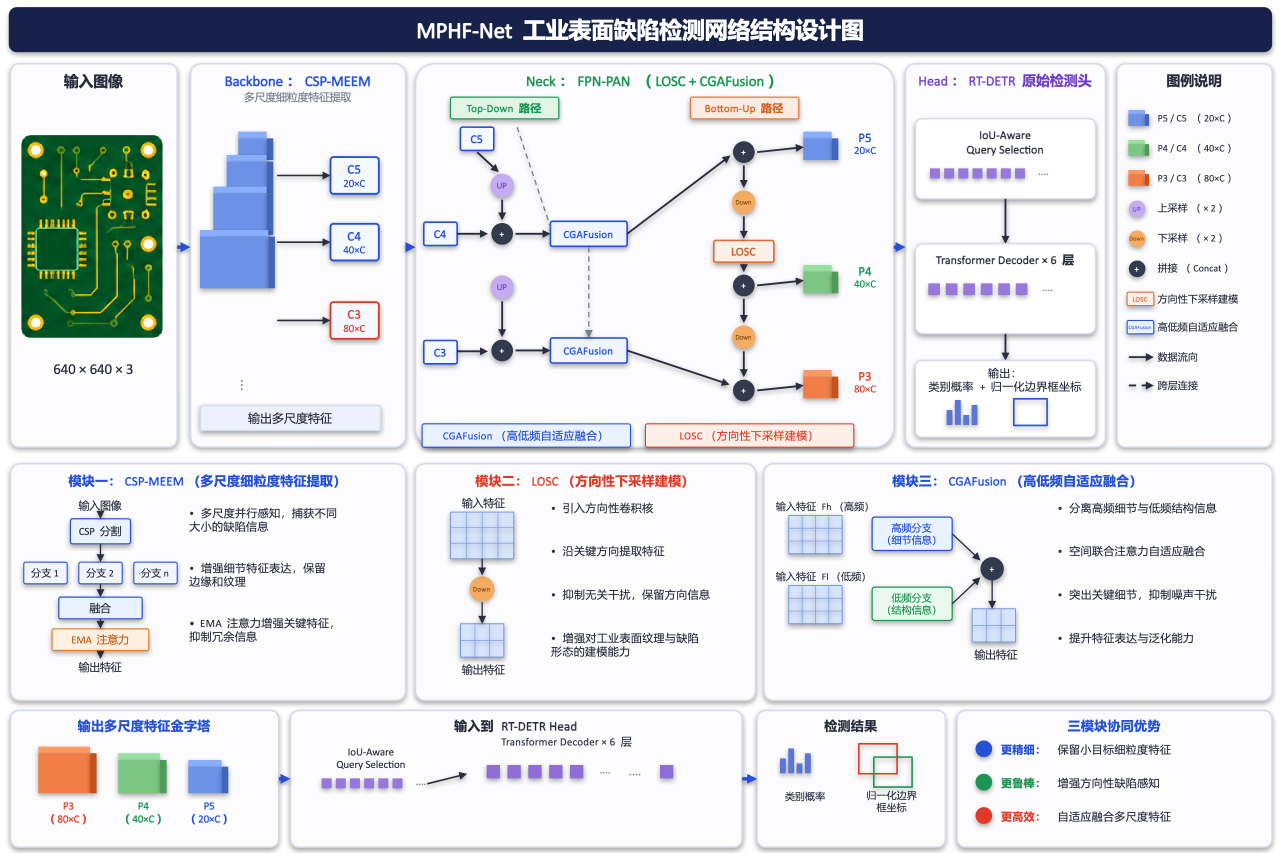
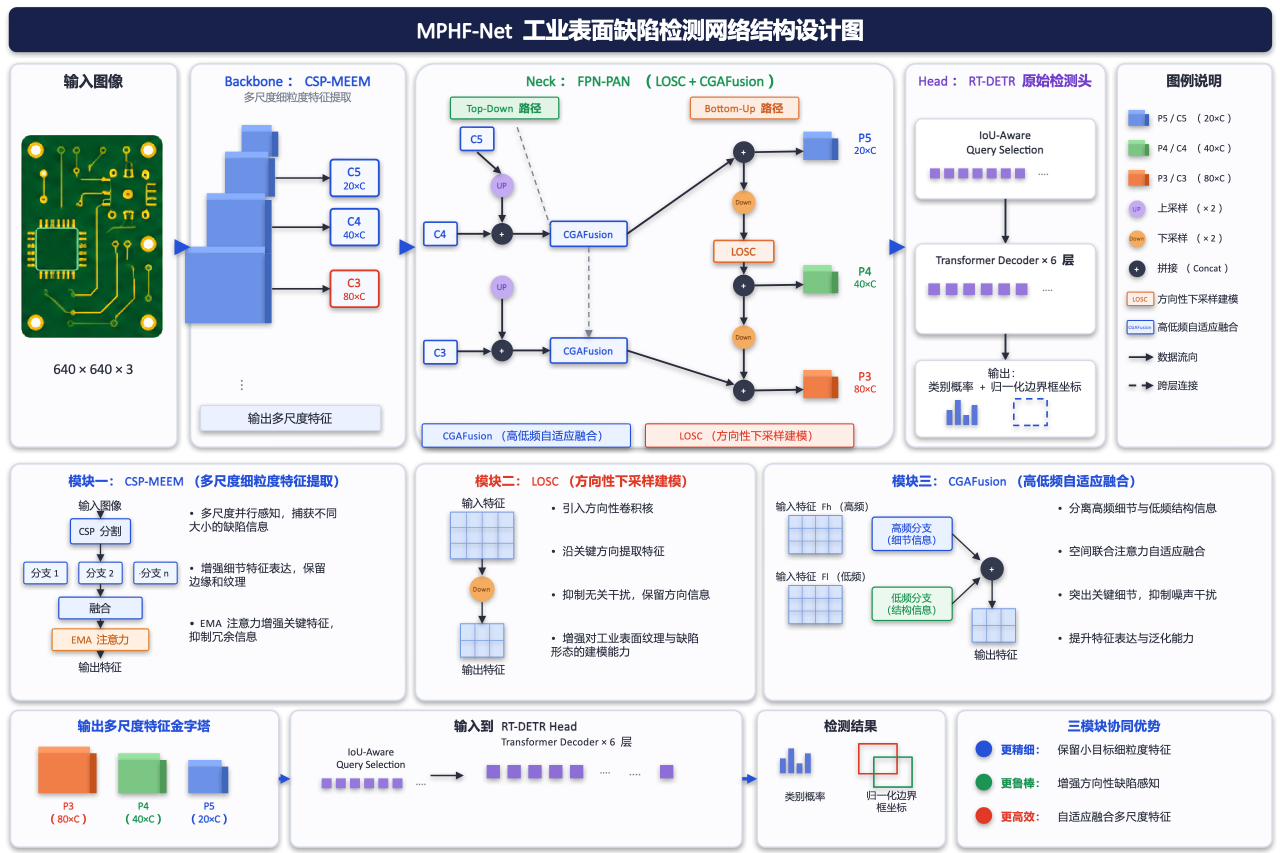
fix(examples): 修复 MPHF-Net 重建稿箭头断连与悬空
Problem / motivation
  用户对照原图与 codex 版重建发现两处箭头硬伤：backbone 面板
  C3 箭头从空白处出发（金字塔最底方块未延伸到箭头起点行）；
  全部箭头因上一轮为规避 badge 字标碰撞统一端点退让 3px，
  渲染上箭头悬空不接触目标（UP/Down/+ 圆与方块）。

Root cause
  金字塔坐标为满足层叠重叠被压缩到面板上部，stage 框行位与
  方块行位脱钩；碰撞规避用了退让而非契约提供的窄豁免机制。

Changes
  - backbone 金字塔重排为铺满面板的层叠四块，C5/C4/C3 框行位
    改由对应方块（bb2/bb3/bb4）中心推导，箭头从方块右缘中心
    水平出发、终点贴框左缘;
  - Neck 全部箭头端点恢复贴目标边界；9 个 badge 单字标注文本
    框列入 routing manifest ignore_text_shapes 窄豁免（契约
    intentional line-to-icon-label 例外，非全局绕过）;
  - 面板间主流程箭头加粗至 4pt 对齐源图块状箭头观感；Head
    输出与检测结果的边界框图标改虚线；B2 内部流程箭头改水平;
  - MSO_LINE 改从 pptx.enum.dml 导入（python-pptx 1.0.2 无
    pptx.enum.line 模块）。

Verification
  - python scripts/pptx_connector_audit.py … routing_manifest.json
    Result: passed true, exit 0.
  - python scripts/pptx_layering_audit.py … layering_manifest.json
    Result: passed true, exit 0（含 bb 金字塔 expected_face_bounds
    ±1pt 参考几何）.
  - python scripts/render_delta_probe.py 源图 preview.png
    Result: mean_abs_delta 0.0873, ssim 0.425.
  - /opt/anaconda3/envs/mlx/bin/python -m pytest tests/ -q
    Result: 51 passed.
  - 渲染局部目测：backbone 三箭头均从对应方块出发接框；Neck
    箭头端点全部触及圆/方块边缘，无悬空。
  Regression coverage：重建稿随脚本可复跑，审计 manifest 记录
  豁免与参考几何。

diff --git a/examples/mphf-net/build_mphf_deck.py b/examples/mphf-net/build_mphf_deck.py
@@ -10,6 +10,7 @@ from pathlib import Path
 
 from pptx import Presentation
 from pptx.dml.color import RGBColor
+from pptx.enum.dml import MSO_LINE_DASH_STYLE as MSO_LINE
 from pptx.enum.shapes import MSO_CONNECTOR, MSO_SHAPE
 from pptx.enum.text import MSO_ANCHOR, PP_ALIGN
 from pptx.oxml.ns import qn
@@ -209,26 +210,28 @@ def build() -> Path:
     label(slide, "SUMMER_T_backbone_sub", 228, 108, 258, 16,
           "多尺度细粒度特征提取", size=8, color=GRAY)
     pyramid = [  # (x, y, w, h) 自上而下渐大，相邻层叠（front 与下一层 top 相交）
-        (286, 158, 34, 26),
-        (272, 186, 48, 38),
-        (256, 224, 64, 50),
-        (240, 276, 82, 62),
+        (290, 150, 36, 30),
+        (270, 182, 52, 46),
+        (248, 232, 70, 64),
+        (222, 296, 96, 84),
     ]
     for index, (x, y, w, h) in enumerate(pyramid, start=1):
         cuboid(slide, f"SUMMER_E_bb{index}", x, y, w, h, CUBE_BLUE)
     label(slide, "SUMMER_T_backbone_dots", 270, 452, 40, 18, "⋮", size=11,
           color=GRAY, bold=True)
-    stage = [("C5", "20×C", BLUE, 188), ("C4", "40×C", BLUE, 268),
-             ("C3", "80×C", RED, 362)]
-    for name, dim, color, y in stage:
-        rect(slide, f"SUMMER_E_bb_{name.lower()}", 396, y, 58, 44,
-             fill=RGBColor(245, 248, 255), edge=color, edge_w=1.4)
-        label(slide, f"SUMMER_T_bb_{name.lower()}", 396, y + 4, 58, 20, name,
-              size=10, color=color, bold=True)
-        label(slide, f"SUMMER_T_bb_{name.lower()}_dim", 396, y + 22, 58, 18,
-              dim, size=8, color=color)
-        line(slide, f"SUMMER_L_bb_to_{name.lower()}", 332, y + 22, 396,
-             y + 22, color=INK, width=1.2)
+    # 箭头从对应方块（bb2/bb3/bb4）右缘中心水平指向各 stage 框左缘
+    stage = [("C5", "20×C", BLUE, pyramid[1]), ("C4", "40×C", BLUE,
+             pyramid[2]), ("C3", "80×C", RED, pyramid[3])]
+    for name, dim, color, (bx, by, bw, bh) in stage:
+        center_y = by + 8 + bh / 2
+        rect(slide, f"SUMMER_E_bb_{name.lower()}", 396, center_y - 22, 58,
+             44, fill=RGBColor(245, 248, 255), edge=color, edge_w=1.4)
+        label(slide, f"SUMMER_T_bb_{name.lower()}", 396, center_y - 18, 58,
+              20, name, size=10, color=color, bold=True)
+        label(slide, f"SUMMER_T_bb_{name.lower()}_dim", 396, center_y, 58,
+              18, dim, size=8, color=color)
+        line(slide, f"SUMMER_L_bb_to_{name.lower()}", bx + bw + 8, center_y,
+             396, center_y, color=INK, width=1.2)
     rect(slide, "SUMMER_E_bb_outbar", 240, 486, 216, 30,
          fill=RGBColor(235, 241, 255), edge=PANEL_EDGE)
     label(slide, "SUMMER_T_bb_outbar", 240, 490, 216, 22, "输出多尺度特征",
@@ -299,23 +302,25 @@ def build() -> Path:
               size=8, color=color)
 
     # Neck 主干箭头（直线，审计目标）
-    line(slide, "SUMMER_L_neck_c5_up", 572, 182, 598, 206)
-    line(slide, "SUMMER_L_neck_up1_add", 602, 239, 602, 264)
-    line(slide, "SUMMER_L_neck_c4_add", 548, 280, 585, 280)
-    line(slide, "SUMMER_L_neck_add1_fusion", 618, 280, 660, 280)
-    line(slide, "SUMMER_L_neck_up2_add", 602, 361, 602, 404)
-    line(slide, "SUMMER_L_neck_c3_add", 548, 421, 585, 421)
-    line(slide, "SUMMER_L_neck_add2_fusion", 618, 420, 660, 420)
-    line(slide, "SUMMER_L_neck_fusion1_add", 752, 280, 876, 186)
-    line(slide, "SUMMER_L_neck_fusion2_add", 752, 420, 875, 461)
-    line(slide, "SUMMER_L_neck_addp5_cube", 908, 182, 964, 176)
-    line(slide, "SUMMER_L_neck_addp4_cube", 908, 342, 964, 336)
-    line(slide, "SUMMER_L_neck_addp3_cube", 908, 468, 964, 462)
-    line(slide, "SUMMER_L_neck_addp5_down", 892, 198, 892, 225)
-    line(slide, "SUMMER_L_neck_down_losc", 892, 259, 892, 286)
-    line(slide, "SUMMER_L_neck_losc_addp4", 892, 316, 892, 326)
-    line(slide, "SUMMER_L_neck_addp4_down2", 892, 358, 892, 387)
-    line(slide, "SUMMER_L_neck_down2_addp3", 892, 421, 892, 452)
+    # 箭头端点贴目标边界（badge 字标已列入 routing manifest 的
+    # ignore_text_shapes 窄豁免，线触圆边不再退让悬空）
+    line(slide, "SUMMER_L_neck_c5_up", 572, 182, 601, 208)
+    line(slide, "SUMMER_L_neck_up1_add", 602, 236, 602, 267)
+    line(slide, "SUMMER_L_neck_c4_add", 548, 280, 589, 280)
+    line(slide, "SUMMER_L_neck_add1_fusion", 615, 280, 660, 280)
+    line(slide, "SUMMER_L_neck_up2_add", 602, 358, 602, 407)
+    line(slide, "SUMMER_L_neck_c3_add", 548, 421, 589, 421)
+    line(slide, "SUMMER_L_neck_add2_fusion", 615, 420, 660, 420)
+    line(slide, "SUMMER_L_neck_fusion1_add", 752, 280, 881, 189)
+    line(slide, "SUMMER_L_neck_fusion2_add", 752, 420, 881, 461)
+    line(slide, "SUMMER_L_neck_addp5_cube", 905, 182, 964, 181)
+    line(slide, "SUMMER_L_neck_addp4_cube", 905, 342, 964, 341)
+    line(slide, "SUMMER_L_neck_addp3_cube", 905, 468, 964, 467)
+    line(slide, "SUMMER_L_neck_addp5_down", 892, 195, 892, 228)
+    line(slide, "SUMMER_L_neck_down_losc", 892, 256, 892, 288)
+    line(slide, "SUMMER_L_neck_losc_addp4", 892, 314, 892, 329)
+    line(slide, "SUMMER_L_neck_addp4_down2", 892, 355, 892, 390)
+    line(slide, "SUMMER_L_neck_down2_addp3", 892, 418, 892, 455)
     # 跨层虚线（装饰，不入审计前缀）
     line(slide, "SUMMER_LD_skip1", 706, 296, 706, 405, dash=True,
          color=GRAY, width=1.0)
@@ -353,7 +358,7 @@ def build() -> Path:
     mini_bars(slide, "SUMMER_E_head_bars", 1136, 478)
     rect(slide, "SUMMER_E_head_bbox", 1216, 478, 40, 32, fill=None,
          edge=BLUE, edge_w=1.2, shape=MSO_SHAPE.RECTANGLE,
-         dash=None)
+         dash=MSO_LINE.DASH)
 
     # ---- P5 图例 ----
     label(slide, "SUMMER_T_legend_title", 1340, 86, 186, 20, "图例说明",
@@ -398,11 +403,11 @@ def build() -> Path:
 
     # ---- 顶行主流程箭头 ----
     line(slide, "SUMMER_L_input_backbone", 212, 296, 228, 296, color=BLUE,
-         width=2.5)
+         width=4.0)
     line(slide, "SUMMER_L_backbone_neck", 486, 296, 498, 296, color=BLUE,
-         width=2.5)
+         width=4.0)
     line(slide, "SUMMER_L_neck_head", 1072, 296, 1086, 296, color=BLUE,
-         width=2.5)
+         width=4.0)
 
     # ---- 中行三模块 ----
     modules = {
@@ -536,7 +541,7 @@ def build() -> Path:
           color=GRAY, bold=True)
     rect(slide, "SUMMER_E_b2_last", 792, 918, 16, 16,
          fill=RGBColor(140, 110, 214), shape=MSO_SHAPE.RECTANGLE, radius=0)
-    line(slide, "SUMMER_L_b2_flow", 512, 940, 560, 928, width=1.2)
+    line(slide, "SUMMER_L_b2_flow", 516, 930, 556, 930, width=1.2)
     line(slide, "SUMMER_L_b1_b2", 334, 934, 348, 934, color=BLUE, width=2.5)
     line(slide, "SUMMER_L_b2_b3", 890, 934, 908, 934, color=BLUE, width=2.5)
     label(slide, "SUMMER_T_b3_title", 908, 860, 226, 20, "检测结果", size=10,
@@ -628,6 +633,15 @@ def _write_manifests(pyramid):
                 {"connector": connector, "target": target,
                  "target_edge": edge, "tolerance_pt": 1.5}
                 for connector, target, edge in routes
+            ],
+            # 窄豁免：箭头按源图语义精确触及 UP/Down/+ 圆形徽章边缘，
+            # 徽章内的单字标注文本框与线端点必然相接，非误压正文
+            "ignore_text_shapes": [
+                "SUMMER_E_neck_up1_text", "SUMMER_E_neck_up2_text",
+                "SUMMER_E_neck_add_td1_text", "SUMMER_E_neck_add_td2_text",
+                "SUMMER_E_neck_add_p5_text", "SUMMER_E_neck_add_p4_text",
+                "SUMMER_E_neck_add_p3_text", "SUMMER_E_neck_down1_text",
+                "SUMMER_E_neck_down2_text",
             ],
         }
     }

diff --git a/examples/mphf-net/run_report.md b/examples/mphf-net/run_report.md
@@ -1,5 +1,11 @@
 # MPHF-Net 整图重建验证报告
 
+修订:2026-08-23——修复箭头两处硬伤(backbone C3 箭头从空白出发;
+全部箭头端点退让 3px 悬空不触目标)。箭头改为从对应方块右缘出发、
+端点贴目标边界;badge 单字标注列入 routing manifest 的
+ignore_text_shapes 窄豁免(契约允许的 intentional 例外,非全局绕过)。
+复审:双审计 passed / exit 0,mad 0.0873 / SSIM 0.425,51 测试全过。
+
 日期:2026-08-22。源图:`assets/reference-figures/mphf-net-architecture.png`(1536×1024 px)。
 映射:uniform 0.625 pt/px → slide 960×640 pt。构建:`build_mphf_deck.py`(python-pptx,editable fallback 路径)。
 
